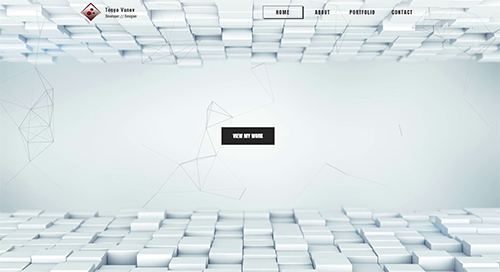
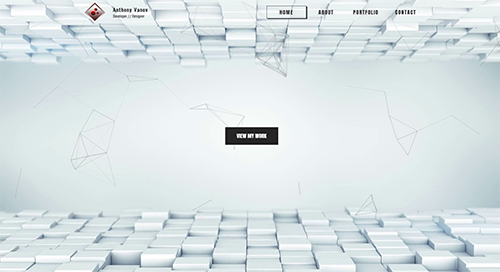
change-name

diff --git a/portfolio/src/components/navigation/logo/Logo.js b/portfolio/src/components/navigation/logo/Logo.js
@@ -12,7 +12,7 @@ const Logo = (props) =>{
           </div>
           <div className={props.className}>
               <div className="logo-name-container">
-                  <h5>Tonyo Vanov</h5>
+                  <h5>Anthony Vanov</h5>
                   <p>Developer // Designer</p>
               </div>
           </div>
